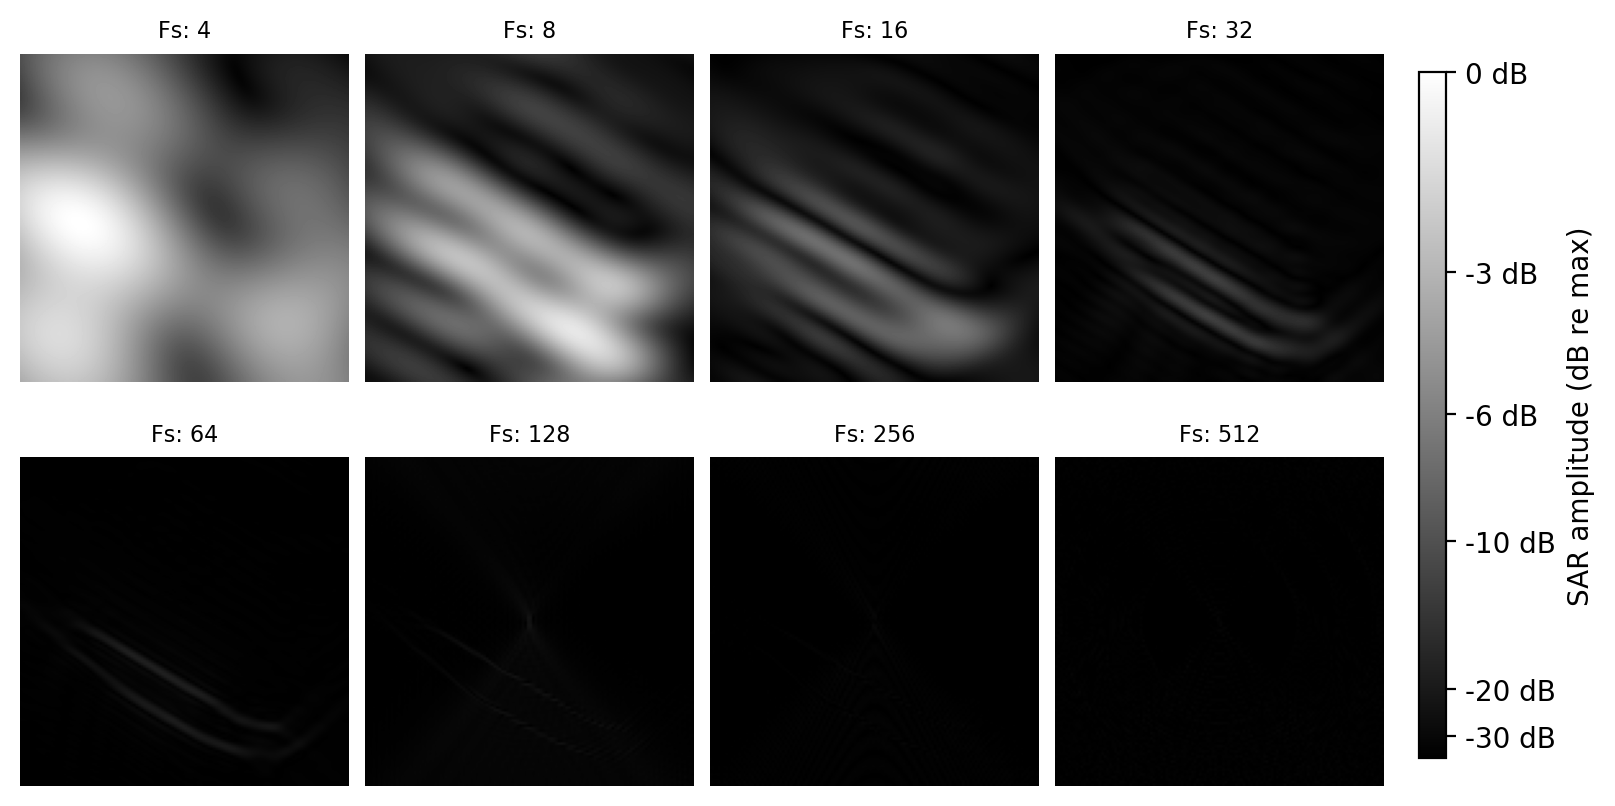
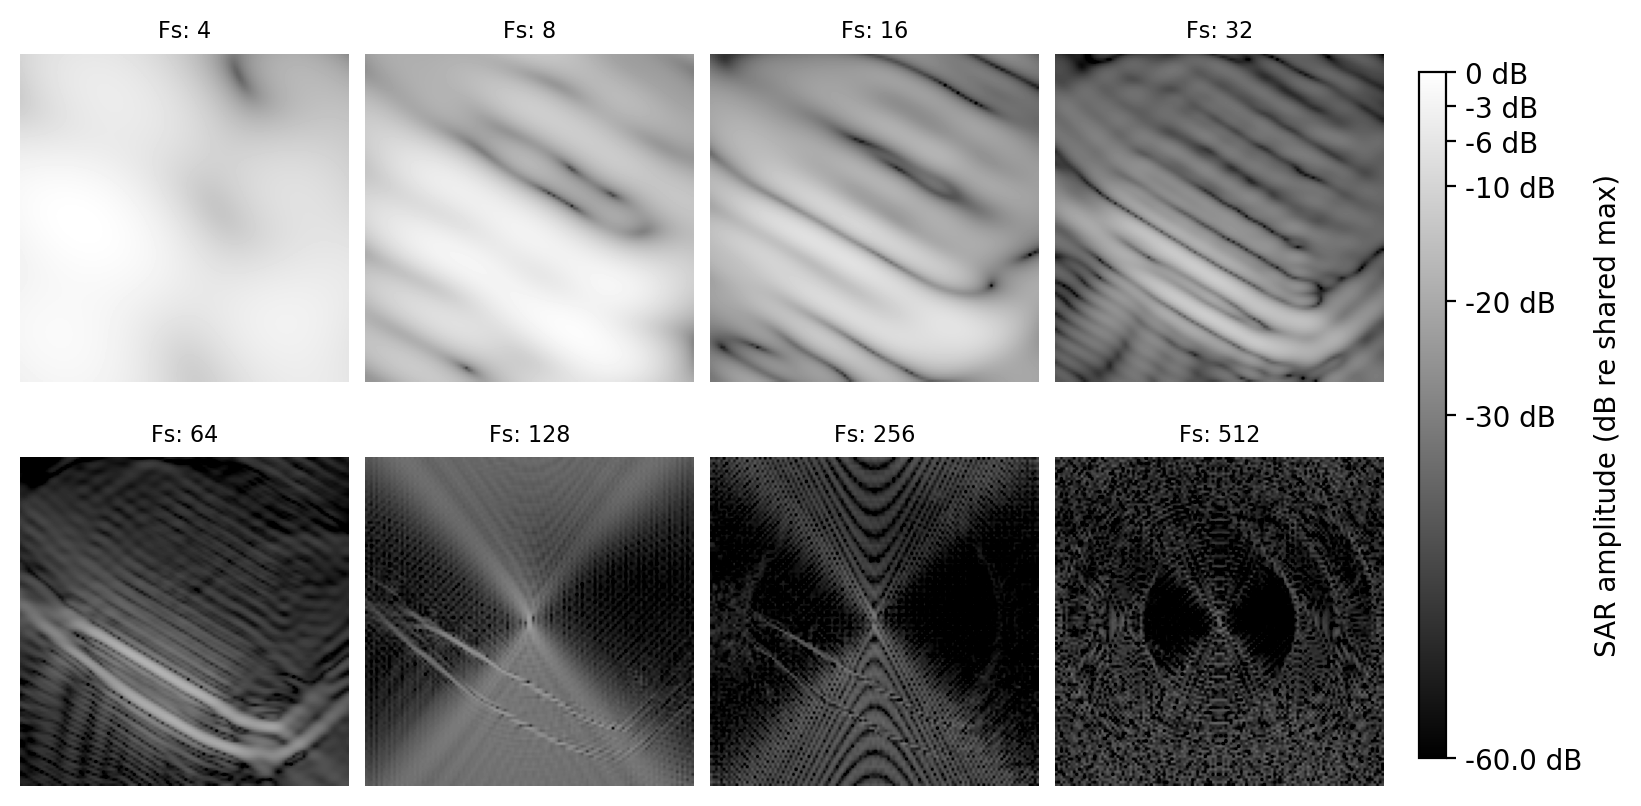
plotting db scale, improved profiling

diff --git a/paper_figures.py b/paper_figures.py
@@ -1,7 +1,13 @@
 """Paper figure experiments. `main` runs the full suite via one call."""
-import numpy as np
+import os
 
-from render_images import multi_param_experiment
+import cv2
+import numpy as np
+import PIL
+import torch
+from matplotlib import pyplot as plt
+
+from render_images import multi_param_experiment, sar_render_image
 
 
 PAPER_BASELINE = dict(
@@ -54,6 +60,7 @@ def _paper_experiments():
         name='fsbw',
         vary={'spatial_bw': bwfs_vals, 'spatial_fs': bwfs_vals},
         custom_title_strings=['Fs: %d' % v for v in bwfs_vals],
+        plot_db_scale=True,
     )
 
     # SNR sweep — sensitivity of the reconstruction to additive receiver noise.
@@ -88,20 +95,149 @@ def _paper_experiments():
     )
 
     return [
-        az_spread,
-        num_pulse,
+        # az_spread,
+        # num_pulse,
         fsbw,
-        snrdb,
-        wavelength,
-        trajectory_type,
-        trajectory_noise_var,
+        # snrdb,
+        # wavelength,
+        # trajectory_type,
+        # trajectory_noise_var,
     ]
 
 
 PAPER_EXPERIMENTS = _paper_experiments()
 
 
-def run_paper_experiments(experiments=PAPER_EXPERIMENTS, baseline=PAPER_BASELINE):
+def _normalize_sar_for_display(sar_image, rgb_shape):
+    sar_image = sar_image.squeeze(0).detach().cpu().numpy()
+    sar_image = np.asarray(sar_image, dtype=np.float32)
+    if sar_image.ndim == 2:
+        sar_image = np.repeat(sar_image[..., None], 3, axis=2)
+    elif sar_image.ndim == 3 and sar_image.shape[2] == 1:
+        sar_image = np.repeat(sar_image, 3, axis=2)
+
+    sar_image = np.clip(sar_image, 0.0, None)
+    if sar_image.size:
+        sar_min = sar_image.min()
+        sar_max = sar_image.max()
+        if sar_max > sar_min:
+            sar_image = (sar_image - sar_min) / (sar_max - sar_min)
+        else:
+            sar_image = np.zeros_like(sar_image)
+    else:
+        sar_image = np.zeros_like(sar_image)
+
+    sar_image = (sar_image * 255.0).astype(np.uint8)
+    sar_image = cv2.resize(
+        sar_image,
+        (rgb_shape[1], rgb_shape[0]),
+        interpolation=cv2.INTER_AREA,
+    )
+    return sar_image
+
+
+def generate_linear_sar_comparison_figure(
+    num_examples=4,
+    output_path='latex/figs/linear_sar_comparison.png',
+    baseline=PAPER_BASELINE,
+    seed=8134,
+):
+    """Create a 4-row figure with RGB, spotlight, and strip-map SAR panels."""
+    dataset_dir = '/workspace/data/srncars/cars_train/'
+    models_dir = '/workspace/data/srncars/02958343'
+
+    os.makedirs(os.path.dirname(output_path), exist_ok=True)
+
+    rng = np.random.RandomState(seed)
+    comparison_kwargs = dict(baseline)
+    comparison_kwargs['trajectory_type'] = 'linear'
+
+    fig, axes = plt.subplots(num_examples, 3, figsize=(9, 3.2 * num_examples), squeeze=False)
+    fig.suptitle('RGB vs. linear-trajectory SAR reconstructions', fontsize=12)
+
+    for row_idx in range(num_examples):
+        obj_ids = sorted(os.listdir(dataset_dir))
+        obj_id = obj_ids[rng.randint(0, len(obj_ids))]
+
+        pose_dir = os.path.join(dataset_dir, obj_id, 'pose')
+        pose_files = sorted(os.listdir(pose_dir))
+        pose_file = pose_files[rng.randint(0, len(pose_files))]
+        pose_num = os.path.splitext(pose_file)[0]
+
+        rgb_path = os.path.join(dataset_dir, obj_id, 'rgb', f'{pose_num}.png')
+        pose_path = os.path.join(pose_dir, pose_file)
+        mesh_path = os.path.join(models_dir, obj_id, 'models', 'model_normalized.obj')
+
+        rgb = np.array(PIL.Image.open(rgb_path))[..., :3]
+        pose = np.loadtxt(pose_path).reshape(1, 4, 4).astype(np.float32)
+        target_poses = torch.tensor(pose, device='cuda' if torch.cuda.is_available() else 'cpu')
+
+        render_kwargs = {
+            'spatial_bw': comparison_kwargs['spatial_bw'],
+            'spatial_fs': comparison_kwargs['spatial_fs'],
+            'snr_db': comparison_kwargs['snr_db'],
+            'wavelength': comparison_kwargs['wavelength'],
+            'use_sig_magnitude': comparison_kwargs['use_sig_magnitude'],
+            'imaging_algorithm': 'cbp',
+            'cbp_batch_size': comparison_kwargs['cbp_batch_size'],
+            'trajectory_type': 'linear',
+            'trajectory_noise_var': comparison_kwargs['trajectory_noise_var'],
+            'num_bounce': comparison_kwargs['num_bounce'],
+            'object_x_flip': comparison_kwargs['object_x_flip'],
+            'object_rotate_xyz': comparison_kwargs['object_rotate_xyz'],
+            'image_width': comparison_kwargs['image_width'],
+            'image_height': comparison_kwargs['image_height'],
+            'image_plane_width': comparison_kwargs['image_plane_width'],
+            'image_plane_height': comparison_kwargs['image_plane_height'],
+            'grid_width': comparison_kwargs['grid_width'],
+            'grid_height': comparison_kwargs['grid_height'],
+            'n_ray_width': comparison_kwargs['n_ray_width'],
+            'n_ray_height': comparison_kwargs['n_ray_height'],
+            'region_radius': comparison_kwargs['region_radius'],
+            'obj_raids': comparison_kwargs['obj_raids'],
+            'ground_raids': comparison_kwargs['ground_raids'],
+        }
+
+        spotlight = sar_render_image(
+            mesh_path,
+            comparison_kwargs['num_pulse'],
+            target_poses,
+            comparison_kwargs['azimuth_spread'],
+            **{k: v for k, v in render_kwargs.items() if k != 'imaging_algorithm'},
+            imaging_algorithm='cbp',
+        )
+        stripmap = sar_render_image(
+            mesh_path,
+            comparison_kwargs['num_pulse'],
+            target_poses,
+            comparison_kwargs['azimuth_spread'],
+            **{k: v for k, v in render_kwargs.items() if k != 'imaging_algorithm'},
+            imaging_algorithm='stripmap',
+        )
+
+        spotlight_vis = _normalize_sar_for_display(spotlight, rgb.shape)
+        stripmap_vis = _normalize_sar_for_display(stripmap, rgb.shape)
+
+        axes[row_idx, 0].imshow(rgb)
+        axes[row_idx, 0].set_title('RGB', fontsize=10)
+        axes[row_idx, 0].axis('off')
+
+        axes[row_idx, 1].imshow(spotlight_vis, cmap='gray')
+        axes[row_idx, 1].set_title('Spotlight', fontsize=10)
+        axes[row_idx, 1].axis('off')
+
+        axes[row_idx, 2].imshow(stripmap_vis, cmap='gray')
+        axes[row_idx, 2].set_title('Strip-map', fontsize=10)
+        axes[row_idx, 2].axis('off')
+
+    fig.subplots_adjust(wspace=0.02, hspace=0.1)
+    fig.savefig(output_path, dpi=200, bbox_inches='tight')
+    plt.close(fig)
+    print(f'Saved comparison figure to: {output_path}')
+    return output_path
+
+
+def run_paper_experiments(experiments=PAPER_EXPERIMENTS, baseline=PAPER_BASELINE, plot_db_scale=False):
     for exp in experiments:
         kwargs = {**baseline, **exp.get('overrides', {})}
         multi_param_experiment(
@@ -109,8 +245,10 @@ def run_paper_experiments(experiments=PAPER_EXPERIMENTS, baseline=PAPER_BASELINE
             kwargs,
             exp['name'],
             custom_title_strings=exp.get('custom_title_strings'),
+            plot_db_scale=exp.get('plot_db_scale', plot_db_scale),
         )
 
 
 if __name__ == '__main__':
-    run_paper_experiments()
+    # run_paper_experiments(plot_db_scale=False)
+    generate_linear_sar_comparison_figure()

diff --git a/render_images.py b/render_images.py
@@ -347,7 +347,25 @@ def render_random_image(
 
 
 
-def multi_param_experiment(param_dict, default_kwargs, experiment_name="experiment", seed=8134, custom_title_strings = None):
+def _prepare_stitched_plot_arrays(sar_arrays, plot_db_scale=False, db_floor=-60.0):
+    """Convert raw SAR amplitudes into the plotting data for stitched figures."""
+    if not plot_db_scale:
+        return sar_arrays, dict(vmin=0.0, vmax=float(max(a.max() for a in sar_arrays)))
+
+    reference = float(max(a.max() for a in sar_arrays))
+    if reference <= 0.0:
+        plot_arrays = [np.zeros_like(a, dtype=np.float32) for a in sar_arrays]
+        return plot_arrays, dict(vmin=db_floor, vmax=0.0)
+
+    plot_arrays = []
+    for arr in sar_arrays:
+        amplitude = np.asarray(arr, dtype=np.float32)
+        db_values = 20.0 * np.log10(np.clip(amplitude / reference, 1e-12, None))
+        plot_arrays.append(db_values)
+    return plot_arrays, dict(vmin=db_floor, vmax=0.0)
+
+
+def multi_param_experiment(param_dict, default_kwargs, experiment_name="experiment", seed=8134, custom_title_strings = None, plot_db_scale=False, db_floor=-60.0):
     """
     A modular function to run experiments by varying multiple parameters together
     
@@ -357,6 +375,7 @@ def multi_param_experiment(param_dict, default_kwargs, experiment_name="experime
         default_kwargs (dict): Default arguments for render_random_image
         experiment_name (str): Name of the experiment for saving files
         seed (int): Random seed for reproducibility
+        plot_db_scale (bool): If True, render the stitched plots in dB relative to a shared max.
     """
     # Verify all parameter arrays have the same length
     lengths = [len(vals) for vals in param_dict.values()]
@@ -422,8 +441,13 @@ def multi_param_experiment(param_dict, default_kwargs, experiment_name="experime
 
     # Load raw SAR amplitude arrays; use a shared color scale so brightness is comparable
     sar_arrays = [np.load(os.path.join('figures', f)) for f in sorted_npy]
-    vmin = 0.0
-    vmax = float(max(a.max() for a in sar_arrays))
+    plot_arrays, plot_range = _prepare_stitched_plot_arrays(
+        sar_arrays,
+        plot_db_scale=plot_db_scale,
+        db_floor=db_floor,
+    )
+    vmin = plot_range['vmin']
+    vmax = plot_range['vmax']
 
     # Layout: if even and > 4, use 2 rows; else 1 row
     n_image = len(sar_arrays)
@@ -437,7 +461,7 @@ def multi_param_experiment(param_dict, default_kwargs, experiment_name="experime
         figsize=(2.2 * n_cols, 2.2 * n_rows + 0.5),
         squeeze=False,
     )
-    for i, (ax, arr, title) in enumerate(zip(axes.flat, sar_arrays, experiment_strings)):
+    for i, (ax, arr, title) in enumerate(zip(axes.flat, plot_arrays, experiment_strings)):
         im = ax.imshow(arr, cmap='gray', vmin=vmin, vmax=vmax)
         ax.set_title(title, fontsize=8)
         ax.axis('off')
@@ -448,13 +472,16 @@ def multi_param_experiment(param_dict, default_kwargs, experiment_name="experime
     fig.subplots_adjust(right=0.9, wspace=0.05, hspace=0.15)
     cbar_ax = fig.add_axes([0.92, 0.15, 0.015, 0.7])
     cbar = fig.colorbar(im, cax=cbar_ax)
-    # Image data is linear amplitude, but label ticks in dB relative to the shared max
-    # so brightness differences remain readable across the whole dynamic range.
-    db_ticks = [0, -3, -6, -10, -20, -30]
-    tick_positions = [vmax * (10 ** (db / 20.0)) for db in db_ticks]
-    cbar.set_ticks(tick_positions)
-    cbar.set_ticklabels([f'{db} dB' for db in db_ticks])
-    cbar.set_label('SAR amplitude (dB re max)')
+    if plot_db_scale:
+        db_ticks = [0, -3, -6, -10, -20, -30]
+        if db_floor < -30:
+            db_ticks = [db_floor] + [t for t in db_ticks if t > db_floor]
+        cbar.set_ticks(db_ticks)
+        cbar.set_ticklabels([f'{db} dB' for db in db_ticks])
+        cbar.set_label('SAR amplitude (dB re shared max)')
+    else:
+        # Image data is linear amplitude, so show a simple linear colorbar.
+        cbar.set_label('SAR amplitude (linear)')
 
     path = f'figures/sar_stitched_{experiment_name}.png'
     fig.savefig(path, dpi=200, bbox_inches='tight')

diff --git a/accumulate_scatters.py b/accumulate_scatters.py
@@ -92,7 +92,11 @@ def accumulate_scatters(mesh, face_normals, material_properties,
     t_setup_total   = 0.0
     t_bounce_totals = [0.0] * num_bounce
 
+    # time octree build separately (it can be expensive and was previously
+    # omitted from the profiling breakdown)
+    t_octree_start = sync_time()
     octree = build_octree(mesh)
+    t_octree_build = sync_time() - t_octree_start
 
     debugging_maps = {}  # (t, p) -> {'depth': (H,W), 'energy': (H,W)}; only populated when debug_gif=True
 
@@ -140,7 +144,12 @@ def accumulate_scatters(mesh, face_normals, material_properties,
                 t_b_start = sync_time()
                 hit_indices, distance = ray_trace(prev_origins, prev_directions, mesh, face_normals, octree=octree, batch_size=second_bounce_batch_size)
 
+                # always account for the time spent in this bounce's ray-trace call
+                t_b_elapsed = sync_time() - t_b_start
+                t_bounce_totals[b-1] += t_b_elapsed
+
                 hit_b = distance >= 0
+                # if no rays hit for this bounce, nothing else to do; report time above
                 if not hit_b.any():
                     break
 
@@ -226,7 +235,8 @@ def accumulate_scatters(mesh, face_normals, material_properties,
 
     t_overall = sync_time() - t_overall_start
     bounce_times = '  '.join(f'bounce{b+1}={t:.3f}s' for b, t in enumerate(t_bounce_totals))
-    print(f"accumulate_scatters: overall={t_overall:.3f}s  setup={t_setup_total:.3f}s  {bounce_times}")
+    # report octree build time separately and ensure breakdown is clear
+    print(f"accumulate_scatters: overall={t_overall:.3f}s  octree={t_octree_build:.3f}s  setup={t_setup_total:.3f}s  {bounce_times}")
 
     # apply complex value to the energy according to wavelength
     if wavelength is not None:

diff --git a/signal_simulation.py b/signal_simulation.py
@@ -504,6 +504,13 @@ def load_mesh(  file_name,
     # ensure material properties are valid
     raids = correct_material_properties(raids)
 
+    # report mesh size for debugging/profiling
+    try:
+        print(f"load_mesh: verts={verts.shape[0].item() if hasattr(verts.shape[0],'item') else verts.shape[0]}  faces={faces.shape[0].item() if hasattr(faces.shape[0],'item') else faces.shape[0]}")
+    except Exception:
+        # best-effort; don't crash callers if printing fails
+        print(f"load_mesh: verts={int(verts.shape[0])} faces={int(faces.shape[0])}")
+
     return mesh, face_normals, raids
     #      obj   (F,3)         (F,5)
 

diff --git a/latex/main.tex b/latex/main.tex
@@ -1,5 +1,5 @@
 % \documentclass[conference]{IEEEtran}
-\documentclass[onecolumn]{IEEEtran}
+\documentclass[twocolumn]{IEEEtran}
 \usepackage[compatibility=false]{caption}
 \usepackage{subcaption}
 \usepackage{booktabs}
@@ -396,12 +396,12 @@ In Figure \ref{fig:wavelength}, we analyze the effect of varying the wavelength 
 
 \subsection{Bandwidth and Ray Density}
 
-In Figure \ref{fig:fsbw}, we analyze the effect of varying the spatial sample rate and bandwidth. Each plot indicates the sample rate in its caption, and we set the spatial bandwidth $B_s = F_s$ equal to the sampling frequency. As expected, the image resolution improves as both bandwidth and sample rate increase. However, an interesting artifact appears at $F_s = 512$, and to a lesser extent at $F_s = 256$. This occurs because, at high sampling rates, the discrete samples begin to capture the fine-scale variations of the continuous returned-signal model described in (\ref{eq:returned-scatters}). Since this signal model is composed of a series of delta functions, oversampling reveals its discontinuous nature rather than producing a smooth approximation. The result is a strange devolving of the constructed SAR image.
+In Figure \ref{fig:fsbw}, we analyze the effect of varying the spatial sample rate and bandwidth. Each plot indicates the sample rate in its caption, and we set the spatial bandwidth $B_s = F_s$ equal to the sampling frequency. The images are shown in dB scale with a shared DC maximum. As expected, the image resolution improves as both bandwidth and sample rate increase. However, an interesting artifact appears at $F_s = 512$, and to a lesser extent at $F_s = 256$. This occurs because, at high sampling rates, the discrete samples begin to capture the fine-scale variations of the continuous returned-signal model described in (\ref{eq:returned-scatters}). Since this signal model is composed of a series of delta functions, oversampling reveals its discontinuous nature rather than producing a smooth approximation. The result is a strange devolving of the constructed SAR image.
 
 \begin{figure}
   \centering
   \includegraphics[trim=0 0 0 0, clip, width=0.48\textwidth]{figs/sar_stitched_fsbw.png}
-  \caption{Varying the spatial sample rate and bandwidth in our simulation.}
+  \caption{Varying the spatial sample rate and bandwidth in our simulation. Images are dB-scaled and share a common DC maximum.}
   \label{fig:fsbw}
 \end{figure}
 